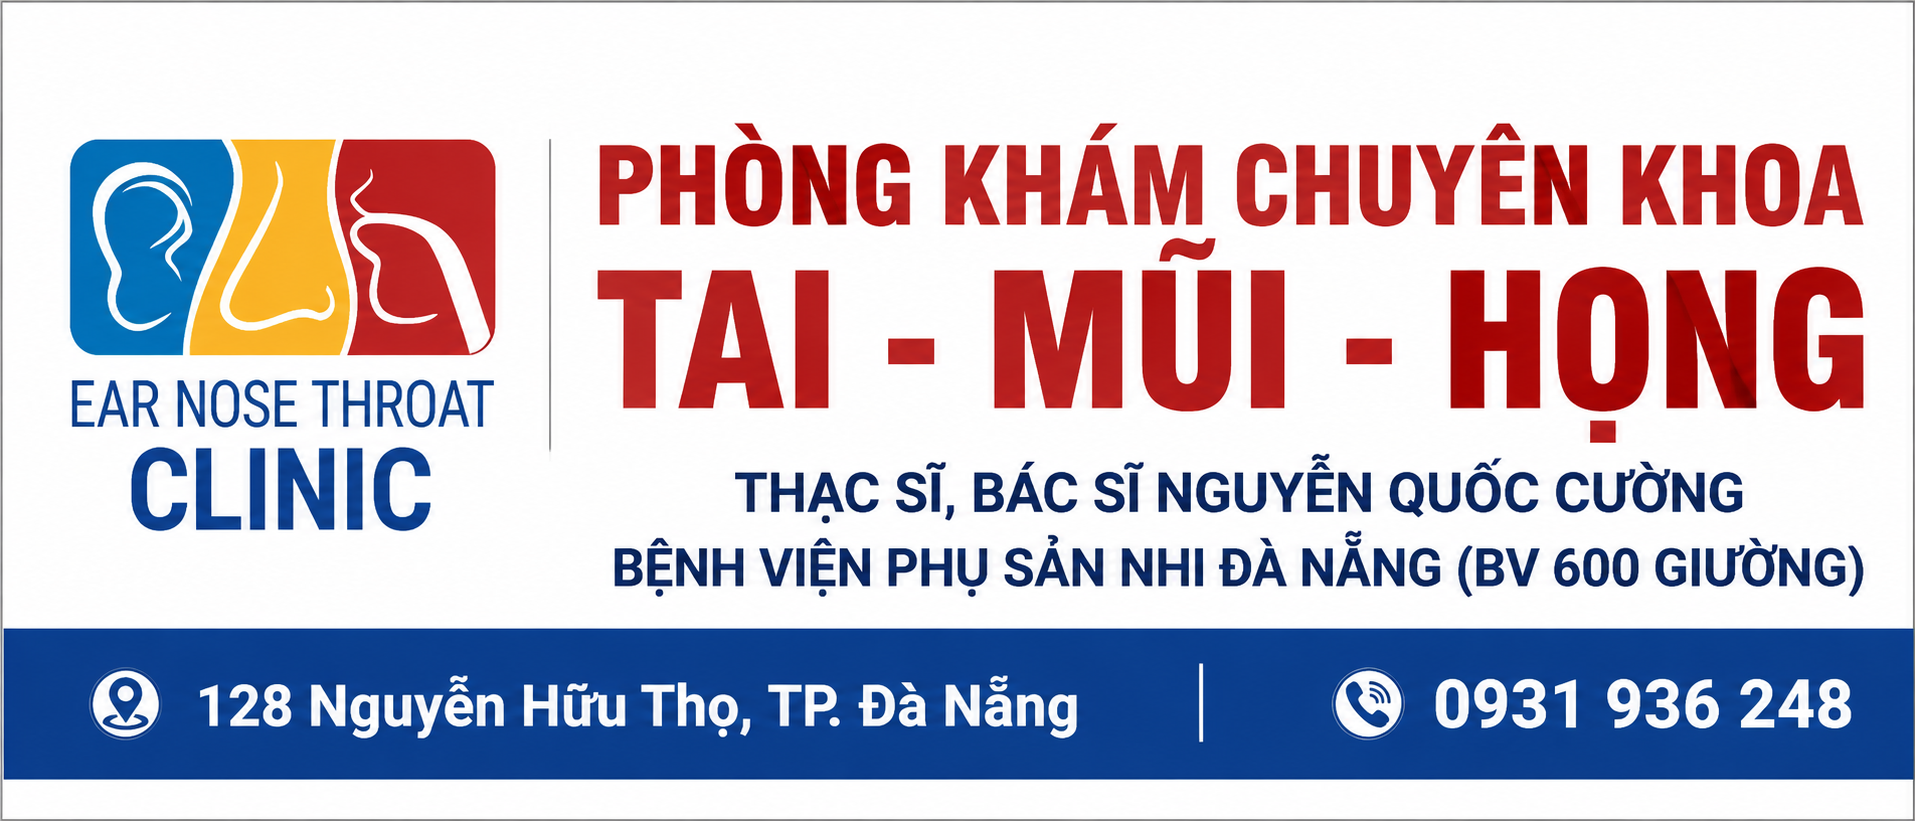
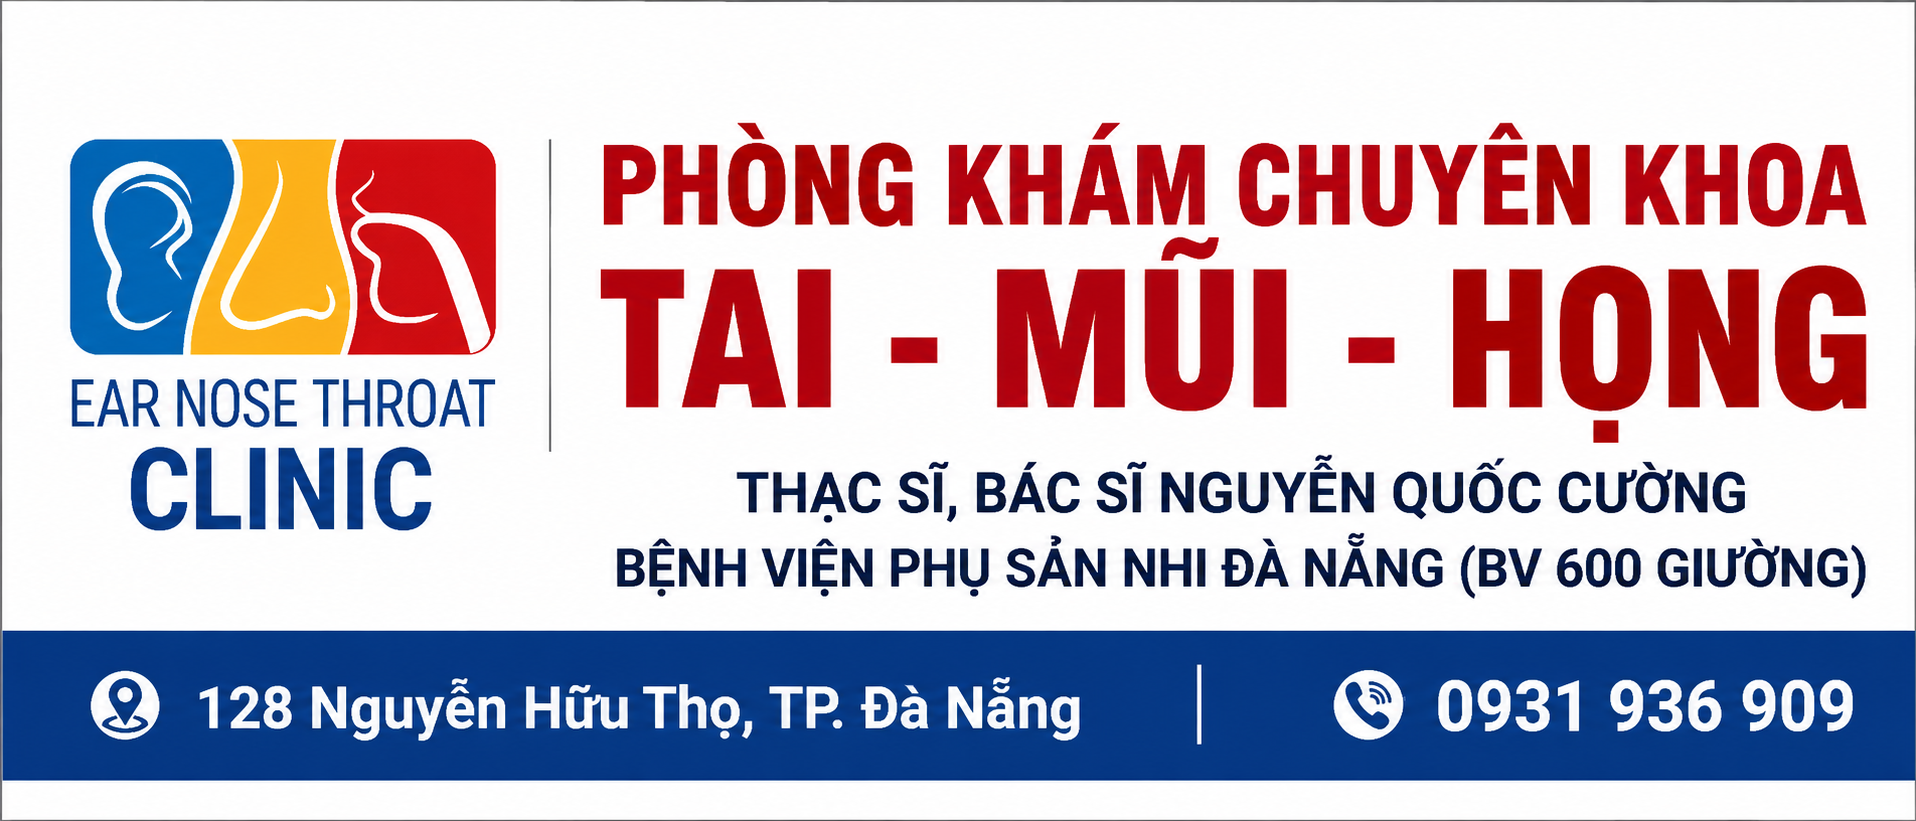
updated

diff --git a/index.html b/index.html
@@ -113,11 +113,11 @@
 
             <div class="header-right">
 
-                <a href="tel:0905056883" class="header-phone">
+                <a href="tel:0931936909" class="header-phone">
 
                     <i class="fa-solid fa-phone"></i>
 
-                    0905 056 883
+                    0931 936 909
 
                 </a>
 
@@ -405,39 +405,26 @@
 
                                     <p>
 
-                                        Sáng:
+                                        Giờ hành chính:
                                         Theo lịch công tác
-                                        tại Bệnh viện Đà Nẵng
+                                        tại Bệnh viện Phụ sản Nhi Đà Nẵng
+
+                                    </p>
+
+
+                                    <p>
+
+                                        Chiều tối:
+                                        17:30 - 20:00
 
                                     </p>
 
                                     <p>
 
-                                        Trưa:
-                                        11:30 - 12:00
-
-                                    </p>
-
-                                    <p>
-
-                                        Chiều:
-                                        17:00 - 19:00
-
-                                    </p>
-
-                                    <p>
-
-                                        Thứ 7:
-                                        09:00 - 11:30
+                                        Thứ 7, Chủ nhật:
+                                        08:00 - 11:00
                                         và
-                                        16:00 - 18:00
-
-                                    </p>
-
-                                    <p>
-
-                                        Chủ nhật:
-                                        09:00 - 11:30
+                                        14:00 - 19:00
 
                                     </p>
 
@@ -839,8 +826,6 @@
 
                             <li>Nang giáp móng.</li>
 
-                            <li>U tuyến giáp.</li>
-
                             <li>Khối u tuyến nước bọt.</li>
 
                             <li>Áp xe vùng cổ.</li>
@@ -856,97 +841,6 @@
 
                 <!-- ================================================= -->
 
-                <div class="service-detail">
-
-                    <div class="service-column">
-
-                        <h3>
-
-                            Khám và điều trị bệnh lý về tai
-
-                        </h3>
-
-                        <p>Đau tai, ù tai, nghe kém.</p>
-
-                        <p>Viêm tai ngoài.</p>
-
-                        <p>Viêm tai giữa cấp và mạn tính.</p>
-
-                        <p>Ráy tai.</p>
-
-                        <p>Thủng màng nhĩ.</p>
-
-                        <p>Tư vấn phẫu thuật tai.</p>
-
-                    </div>
-
-                    <div class="service-column">
-
-                        <h3>
-
-                            Khám và điều trị bệnh lý mũi xoang
-
-                        </h3>
-
-                        <p>Nghẹt mũi.</p>
-
-                        <p>Viêm mũi dị ứng.</p>
-
-                        <p>Viêm xoang cấp.</p>
-
-                        <p>Viêm xoang mạn.</p>
-
-                        <p>Nội soi mũi.</p>
-
-                        <p>Điều trị chảy máu mũi.</p>
-
-                    </div>
-
-                    <div class="service-column">
-
-                        <h3>
-
-                            Khám và điều trị bệnh lý họng
-
-                        </h3>
-
-                        <p>Viêm họng.</p>
-
-                        <p>Viêm amidan.</p>
-
-                        <p>Khàn tiếng.</p>
-
-                        <p>Nội soi thanh quản.</p>
-
-                        <p>Polyp dây thanh.</p>
-
-                        <p>Nang dây thanh.</p>
-
-                    </div>
-
-                    <div class="service-column">
-
-                        <h3>
-
-                            Khám và điều trị vùng đầu cổ
-
-                        </h3>
-
-                        <p>Khám hạch cổ.</p>
-
-                        <p>Khối u vùng cổ.</p>
-
-                        <p>Nội soi sinh thiết.</p>
-
-                        <p>Tư vấn phẫu thuật.</p>
-
-                        <p>Nang giáp móng.</p>
-
-                        <p>U tuyến giáp.</p>
-
-                    </div>
-
-                </div>
 
             </div>
 
@@ -1165,7 +1059,7 @@
 
                                 <p>
 
-                                    093 193 69 09
+                                    0931 936 909
 
                                 </p>
 
@@ -1265,21 +1159,15 @@
 
                         <h3>
 
-                            Lưu ý
+                            LƯU Ý QUAN TRỌNG ĐẾN QUÝ BỆNH NHÂN:
 
                         </h3>
 
                         <p>
 
-                            Để giảm thời gian chờ,
-                            vui lòng đặt lịch trước khi đến khám.
-
-                        </p>
-
-                        <p>
-
-                            Trong trường hợp cấp cứu,
-                            vui lòng đến bệnh viện gần nhất.
+                            Vì Bác sĩ Cường có thể có lịch trực đột xuất tại Bệnh viện Phụ Sản Nhi Đà Nẵng, thời gian
+                            khám thực tế có thể sai lệch đôi chút so với bảng giờ cố định. Để không phải chờ đợi lâu,
+                            vui lòng <b>gọi điện hoặc nhắn tin Zalo đặt lịch trước</b> khi đến khám.
 
                         </p>
 
@@ -1592,7 +1480,7 @@
 
                                 <i class="fa-solid fa-phone"></i>
 
-                                093 193 69 09
+                                0931 936 909
 
                             </li>
 

diff --git a/style.css b/style.css
@@ -3218,3 +3218,12 @@ blockquote::before {
     object-fit: contain;
 
 }
+
+@media (max-width:768px) {
+
+    .hero {
+        min-height: auto;
+        padding: 40px 0;
+    }
+
+}
